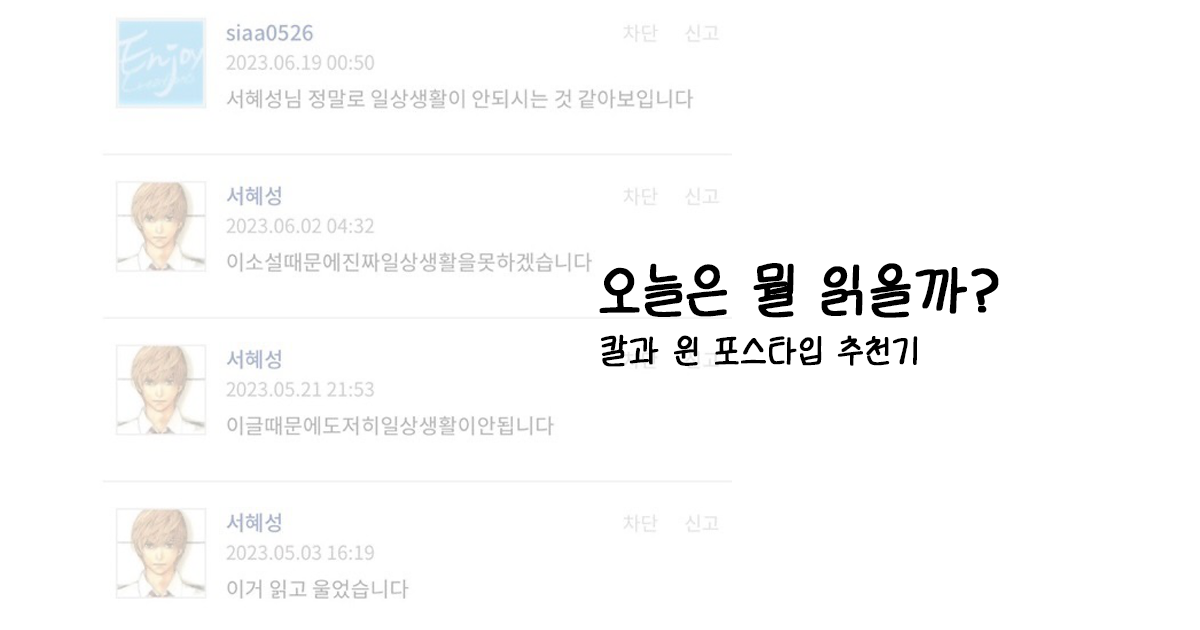
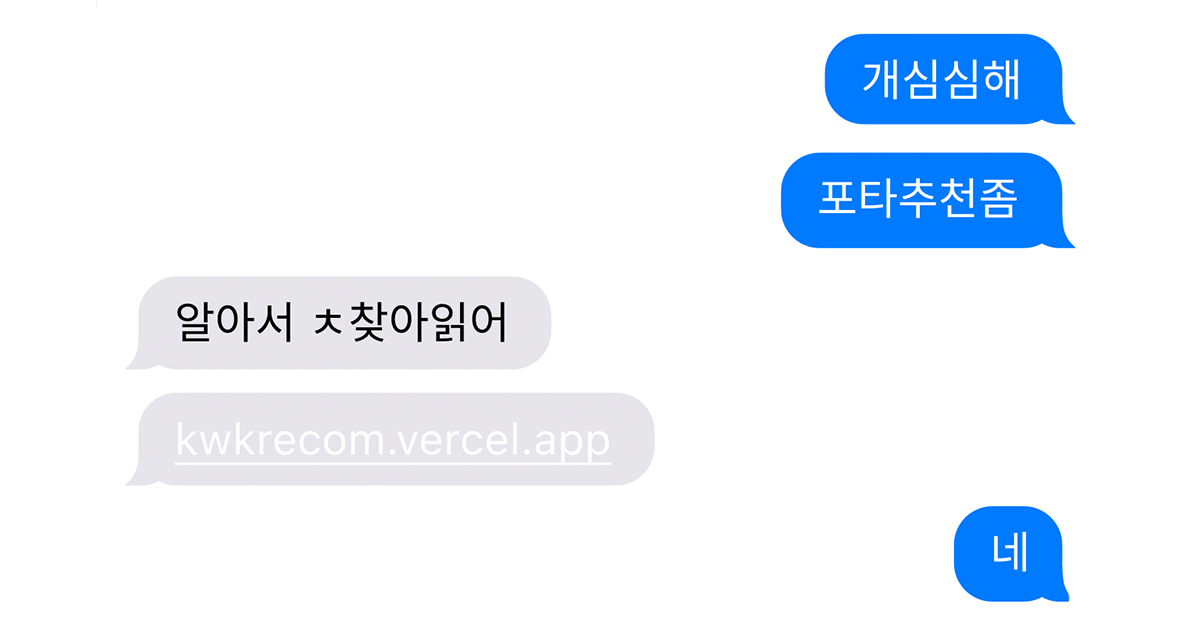
newest thumbnail

diff --git a/src/pages/CatalogSheet.tsx b/src/pages/CatalogSheet.tsx
@@ -1,7 +1,7 @@
 import Header from "@/components/Header";
 import { works as allWorks } from "@/data/works";
 import { tags as allTags, Tag } from "@/data/tags";
-import { workTags as mappings } from "@/data/workTags";
+import { workTags as mappings } from "@/data/workTags.ts";
 import { useEffect, useMemo, useState } from "react";
 import { Input } from "@/components/ui/input";
 import { Button } from "@/components/ui/button";
